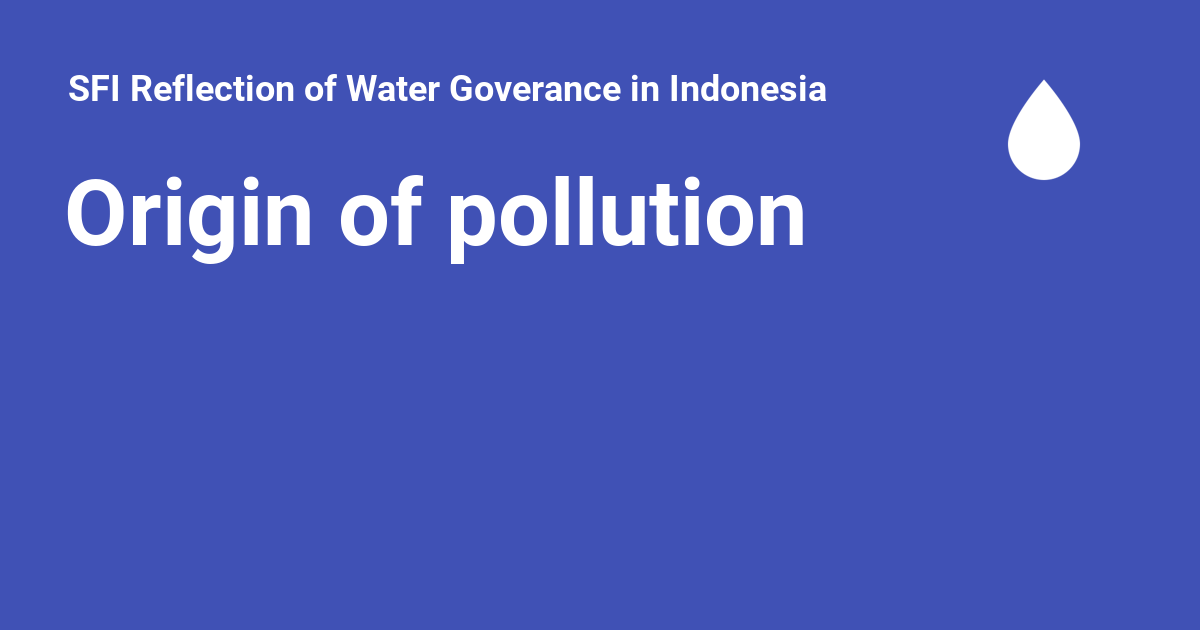
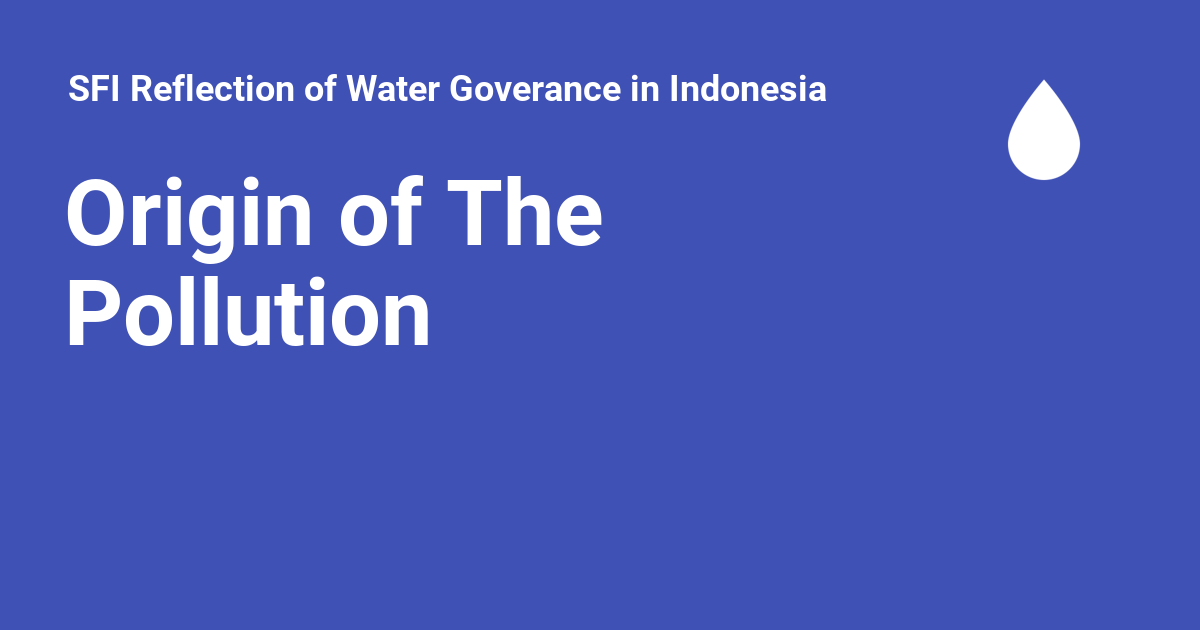
Deployed  with MkDocs version: 1.5.3

Changed region(s): [[0.0308, 0.4222, 0.37, 0.573], [0.37, 0.2714, 0.6783, 0.4222]]

diff --git a/pollution/index.html b/pollution/index.html
@@ -22,7 +22,7 @@
     
     
       
-        <title>Origin of pollution - SFI Reflection of Water Goverance in Indonesia</title>
+        <title>Origin of The Pollution - SFI Reflection of Water Goverance in Indonesia</title>
       
     
     
@@ -48,6 +48,8 @@
       
     
     
+      <link rel="stylesheet" href="../stylesheets/extra.css">
+    
       <link rel="stylesheet" href="https://fonts.googleapis.com/css?family=Roboto:400,700">
     
       <link rel="stylesheet" href="https://fonts.googleapis.com/css2?family=Lora:ital,wght@0,400;0,500;0,600;0,700;1,400;1,500;1,600;1,700&display=swap">
@@ -61,7 +63,7 @@
       
         <meta  property="og:type"  content="website" >
       
-        <meta  property="og:title"  content="Origin of pollution - SFI Reflection of Water Goverance in Indonesia" >
+        <meta  property="og:title"  content="Origin of The Pollution - SFI Reflection of Water Goverance in Indonesia" >
       
         <meta  property="og:description"  content="None" >
       
@@ -77,7 +79,7 @@
       
         <meta  name="twitter:card"  content="summary_large_image" >
       
-        <meta  name="twitter:title"  content="Origin of pollution - SFI Reflection of Water Goverance in Indonesia" >
+        <meta  name="twitter:title"  content="Origin of The Pollution - SFI Reflection of Water Goverance in Indonesia" >
       
         <meta  name="twitter:description"  content="None" >
       
@@ -149,7 +151,7 @@
         <div class="md-header__topic" data-md-component="header-topic">
           <span class="md-ellipsis">
             
-              Origin of pollution
+              Origin of The Pollution
             
           </span>
         </div>
@@ -376,7 +378,7 @@
           
   
   <span class="md-ellipsis">
-    Origin of pollution
+    Origin of The Pollution
   </span>
   
 
@@ -387,7 +389,7 @@
         
   
   <span class="md-ellipsis">
-    Origin of pollution
+    Origin of The Pollution
   </span>
   
 

diff --git a/prob/index.html b/prob/index.html
@@ -48,6 +48,8 @@
       
     
     
+      <link rel="stylesheet" href="../stylesheets/extra.css">
+    
       <link rel="stylesheet" href="https://fonts.googleapis.com/css?family=Roboto:400,700">
     
       <link rel="stylesheet" href="https://fonts.googleapis.com/css2?family=Lora:ital,wght@0,400;0,500;0,600;0,700;1,400;1,500;1,600;1,700&display=swap">
@@ -367,7 +369,7 @@
         
   
   <span class="md-ellipsis">
-    Origin of pollution
+    Origin of The Pollution
   </span>
   
 
@@ -614,7 +616,7 @@
       <nav class="md-footer__inner md-grid" aria-label="Footer" >
         
           
-          <a href="../pollution/" class="md-footer__link md-footer__link--prev" aria-label="Previous: Origin of pollution">
+          <a href="../pollution/" class="md-footer__link md-footer__link--prev" aria-label="Previous: Origin of The Pollution">
             <div class="md-footer__button md-icon">
               
               <svg xmlns="http://www.w3.org/2000/svg" viewBox="0 0 24 24"><path d="M20 11v2H8l5.5 5.5-1.42 1.42L4.16 12l7.92-7.92L13.5 5.5 8 11h12Z"/></svg>
@@ -624,7 +626,7 @@
                 Previous
               </span>
               <div class="md-ellipsis">
-                Origin of pollution
+                Origin of The Pollution
               </div>
             </div>
           </a>

diff --git a/intro/index.html b/intro/index.html
@@ -48,6 +48,8 @@
       
     
     
+      <link rel="stylesheet" href="../stylesheets/extra.css">
+    
       <link rel="stylesheet" href="https://fonts.googleapis.com/css?family=Roboto:400,700">
     
       <link rel="stylesheet" href="https://fonts.googleapis.com/css2?family=Lora:ital,wght@0,400;0,500;0,600;0,700;1,400;1,500;1,600;1,700&display=swap">
@@ -377,7 +379,7 @@
         
   
   <span class="md-ellipsis">
-    Origin of pollution
+    Origin of The Pollution
   </span>
   
 
@@ -565,13 +567,13 @@
         
         
           
-          <a href="../pollution/" class="md-footer__link md-footer__link--next" aria-label="Next: Origin of pollution">
+          <a href="../pollution/" class="md-footer__link md-footer__link--next" aria-label="Next: Origin of The Pollution">
             <div class="md-footer__title">
               <span class="md-footer__direction">
                 Next
               </span>
               <div class="md-ellipsis">
-                Origin of pollution
+                Origin of The Pollution
               </div>
             </div>
             <div class="md-footer__button md-icon">

diff --git a/404.html b/404.html
@@ -42,6 +42,8 @@
       
     
     
+      <link rel="stylesheet" href="/sfi-reflection/stylesheets/extra.css">
+    
       <link rel="stylesheet" href="https://fonts.googleapis.com/css?family=Roboto:400,700">
     
       <link rel="stylesheet" href="https://fonts.googleapis.com/css2?family=Lora:ital,wght@0,400;0,500;0,600;0,700;1,400;1,500;1,600;1,700&display=swap">
@@ -321,7 +323,7 @@
         
   
   <span class="md-ellipsis">
-    Origin of pollution
+    Origin of The Pollution
   </span>
   
 

diff --git a/blog/index.html b/blog/index.html
@@ -44,6 +44,8 @@
       
     
     
+      <link rel="stylesheet" href="../stylesheets/extra.css">
+    
       <link rel="stylesheet" href="https://fonts.googleapis.com/css?family=Roboto:400,700">
     
       <link rel="stylesheet" href="https://fonts.googleapis.com/css2?family=Lora:ital,wght@0,400;0,500;0,600;0,700;1,400;1,500;1,600;1,700&display=swap">
@@ -363,7 +365,7 @@
         
   
   <span class="md-ellipsis">
-    Origin of pollution
+    Origin of The Pollution
   </span>
   
 

diff --git a/closing/index.html b/closing/index.html
@@ -48,6 +48,8 @@
       
     
     
+      <link rel="stylesheet" href="../stylesheets/extra.css">
+    
       <link rel="stylesheet" href="https://fonts.googleapis.com/css?family=Roboto:400,700">
     
       <link rel="stylesheet" href="https://fonts.googleapis.com/css2?family=Lora:ital,wght@0,400;0,500;0,600;0,700;1,400;1,500;1,600;1,700&display=swap">
@@ -362,7 +364,7 @@
         
   
   <span class="md-ellipsis">
-    Origin of pollution
+    Origin of The Pollution
   </span>
   
 

diff --git a/game/index.html b/game/index.html
@@ -48,6 +48,8 @@
       
     
     
+      <link rel="stylesheet" href="../stylesheets/extra.css">
+    
       <link rel="stylesheet" href="https://fonts.googleapis.com/css?family=Roboto:400,700">
     
       <link rel="stylesheet" href="https://fonts.googleapis.com/css2?family=Lora:ital,wght@0,400;0,500;0,600;0,700;1,400;1,500;1,600;1,700&display=swap">
@@ -362,7 +364,7 @@
         
   
   <span class="md-ellipsis">
-    Origin of pollution
+    Origin of The Pollution
   </span>
   
 

diff --git a/proposedsolution/index.html b/proposedsolution/index.html
@@ -48,6 +48,8 @@
       
     
     
+      <link rel="stylesheet" href="../stylesheets/extra.css">
+    
       <link rel="stylesheet" href="https://fonts.googleapis.com/css?family=Roboto:400,700">
     
       <link rel="stylesheet" href="https://fonts.googleapis.com/css2?family=Lora:ital,wght@0,400;0,500;0,600;0,700;1,400;1,500;1,600;1,700&display=swap">
@@ -367,7 +369,7 @@
         
   
   <span class="md-ellipsis">
-    Origin of pollution
+    Origin of The Pollution
   </span>
   
 

diff --git a/ref/index.html b/ref/index.html
@@ -46,6 +46,8 @@
       
     
     
+      <link rel="stylesheet" href="../stylesheets/extra.css">
+    
       <link rel="stylesheet" href="https://fonts.googleapis.com/css?family=Roboto:400,700">
     
       <link rel="stylesheet" href="https://fonts.googleapis.com/css2?family=Lora:ital,wght@0,400;0,500;0,600;0,700;1,400;1,500;1,600;1,700&display=swap">
@@ -365,7 +367,7 @@
         
   
   <span class="md-ellipsis">
-    Origin of pollution
+    Origin of The Pollution
   </span>
   
 

diff --git a/index.html b/index.html
@@ -46,6 +46,8 @@
       
     
     
+      <link rel="stylesheet" href="stylesheets/extra.css">
+    
       <link rel="stylesheet" href="https://fonts.googleapis.com/css?family=Roboto:400,700">
     
       <link rel="stylesheet" href="https://fonts.googleapis.com/css2?family=Lora:ital,wght@0,400;0,500;0,600;0,700;1,400;1,500;1,600;1,700&display=swap">
@@ -432,7 +434,7 @@
         
   
   <span class="md-ellipsis">
-    Origin of pollution
+    Origin of The Pollution
   </span>
   
 

diff --git a/stylesheets/extra.css b/stylesheets/extra.css
@@ -9,7 +9,7 @@ article p.admonition-title {
 
 .md-typeset h1, .md-typeset h2 {
   font-weight: bold;
-  color: black;
+  
 }
 
 s {
